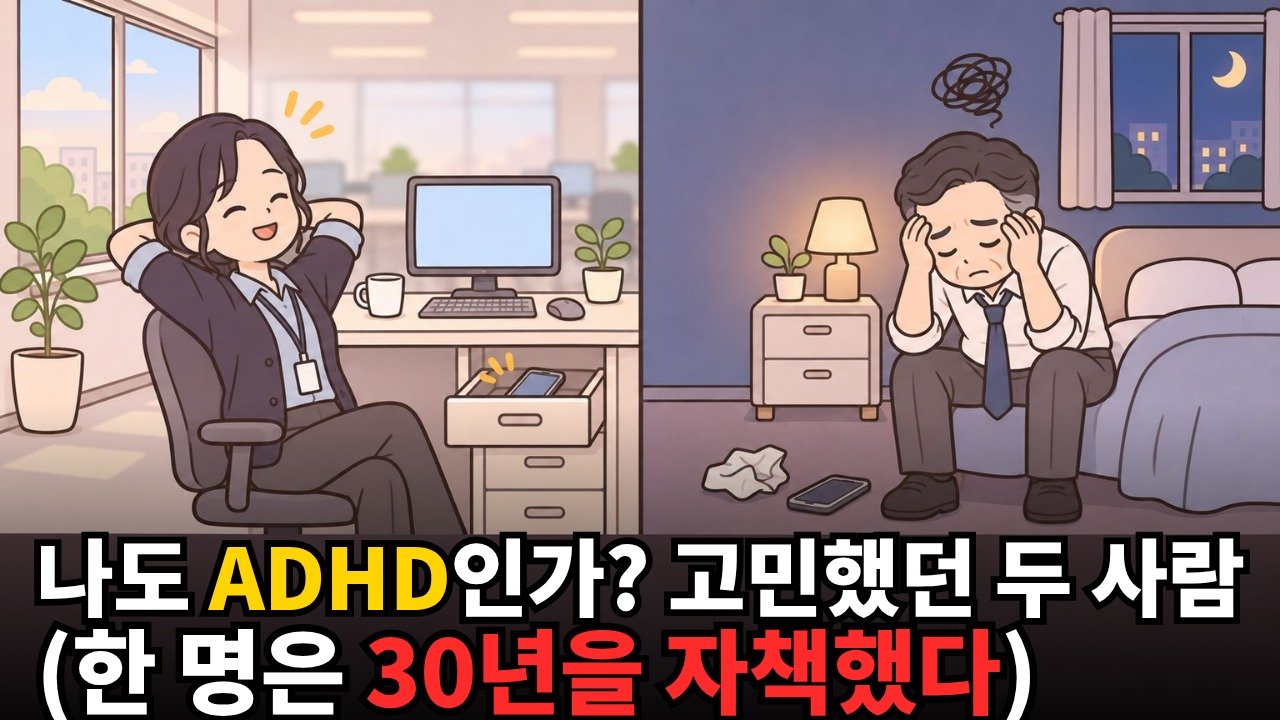
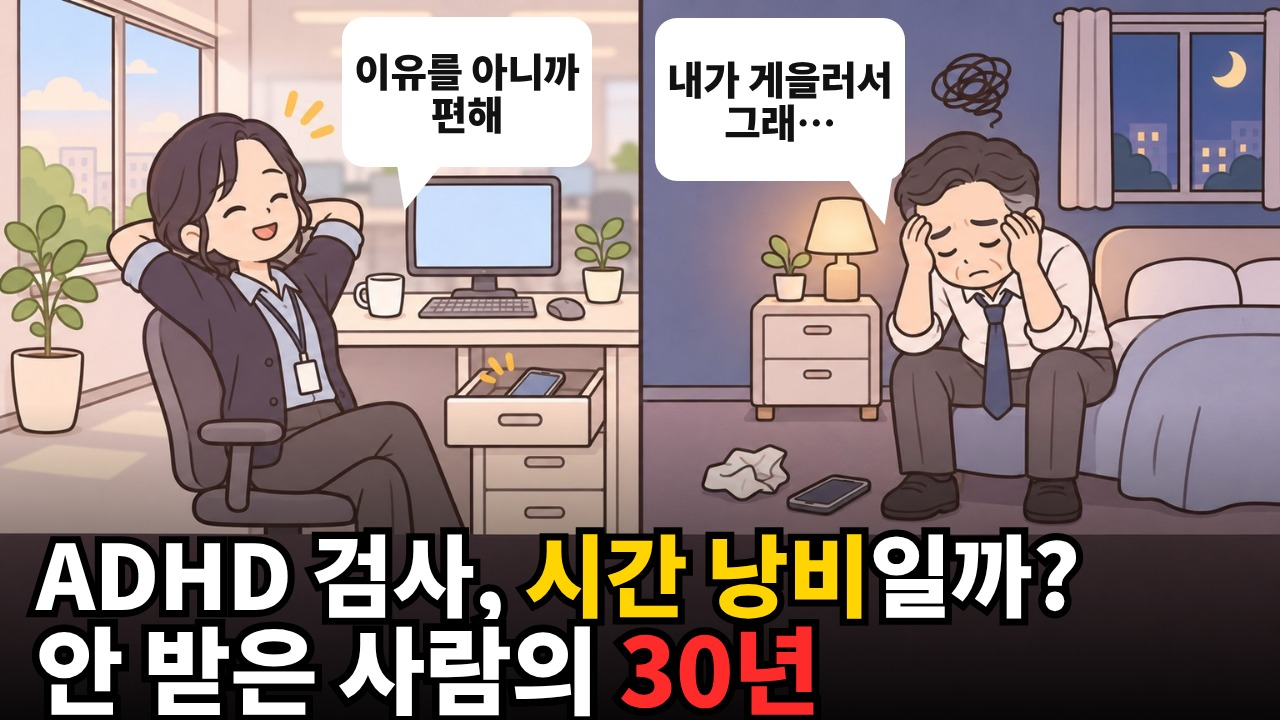
psychology: ADHD 썸네일 3안 다시 — 두 사람 말풍선 · 둘째 줄 괄호 뺌 · 실험안 2개 새 문구
- thumbs_build.py v1.4: 안마다 문구·말풍선 여러 개 (variants) · package.json thumb_tests 대조
- 본안 사용자 문구 · 실험 1 「ADHD 검사, 시간 낭비일까? / 안 받은 사람의 30년」 · 실험 2 「게으른 줄 알았던 두 사람 / 한 명만 진짜 이유를 알았다」

Claude-Session: https://claude.ai/code/session_01PYG2MqrRa1FwGcWhbgqN1W

Changed region(s): [[0.0, 0.7333, 1.0, 1.0], [0.5, 0.0, 0.7188, 0.3056], [0.25, 0.0, 0.4688, 0.275]]

diff --git a/psychology/source/thumbs_build.py b/psychology/source/thumbs_build.py
@@ -1,6 +1,7 @@
 #!/usr/bin/env python3
 # -*- coding: utf-8 -*-
-# VERSION: v1.3 — 2026-11-24 — adhd-ab-2026-11 (일상툰 · 그림 아래 어두운 띠 y 74% 부터): 편마다 글 상자(l1·l2)·꼬리 방향·설명 줄을 따로 — 사용자 지시 "1번으로 하고 썸네일 만들어봐"
+# VERSION: v1.4 — 2026-11-24 — 편마다 3안을 따로 (variants: 안마다 문구 2줄·말풍선 여러 개) — 사용자 지시 "둘다 말풍선 넣고 두번재 줄 괄호 제거해 그리고 나머지 2개는 실험형으로 너가 문구를 만드는 거야"
+# 이전 v1.3 — 2026-11-24 — adhd-ab-2026-11 (일상툰 · 그림 아래 어두운 띠 y 74% 부터): 편마다 글 상자(l1·l2)·꼬리 방향·설명 줄을 따로 — 사용자 지시 "1번으로 하고 썸네일 만들어봐"
 # 이전 v1.2 — 2026-11-13 — 말풍선 꼬리가 말하는 사람(말풍선 왼쪽 아래) 쪽으로 기울게 (tail right · 18%)
 # 이전 v1.1 — 2026-11-13 — 말풍선을 머리 옆 빈 곳 끝까지 넓히고 줄을 나눠 글자를 키움 (40~46px → 크게 · 낱말 그대로)
 # 이전 v1.0 — 2026-11-13 — 심리 네 편 롱폼 썸네일 3안 설정 (만스피처럼 그림 = ChatGPT TH-CHAR · 문구 = 코드 thumb.mjs)
@@ -8,6 +9,7 @@
 # CHANGELOG
 # | 버전 | 날짜 | 바뀐 것 | 함수 |
 # |---|---|---|---|
+# | v1.4 | 2026-11-24 | variants (안마다 문구·말풍선 여러 개) — package.json thumb_tests 와 글자 대조 | build |
 # | v1.3 | 2026-11-24 | 편마다 l1·l2 글 상자 · tail·tailPos · note (adhd-ab-2026-11) | EP · bubble · build |
 # | v1.2 | 2026-11-13 | 꼬리 방향 = 말하는 사람 쪽 | bubble |
 # | v1.1 | 2026-11-13 | 말풍선 자리 넓힘 · 줄 나눔 (글자 그대로) · fill 0.9/0.74 | EP · bubble |
@@ -64,11 +66,15 @@ EP = {
     },
     # v1.3 — 그림 아래 26% 가 어두운 띠(y 640/864 부터) → 두 줄을 띠 안에 · 말풍선 = B 머리 왼쪽 빈 벽, 꼬리는 오른쪽(B 쪽)으로
     "adhd-ab-2026-11": {
-        "main": [[["나도 ", "W"], ["ADHD", "Y"], ["인가? 고민했던 두 사람", "W"]], [["(한 명은 ", "W"], ["30년을 자책했다", "R"], [")", "W"]]],
-        "alt": [[["나도 ADHD인가? ", "W"], ["고민했던 두 사람", "Y"]], [["(한 명은 ", "W"], ["30년", "Y"], ["을 자책했다)", "W"]]],
-        "bubble": [786, 22, 300, 196], "btext": "내가 게을러서\n그래…", "tail": "left", "tailPos": 0.78,
         "l1": [36, 524, 1208, 94], "l2": [36, 616, 1000, 100],
-        "note": "문구 = 사용자가 고른 윗줄·아랫줄(1번) + 보조 문구(대본 46번 B씨 생각) — 제목이 정해지면 persona_loop title 단계",
+        # v1.4 두 사람 모두 말풍선 — A 머리 오른쪽 사무실 벽(모니터 위) · B 머리 왼쪽 어두운 벽 (사람·스탠드·낙서 구름을 가리지 않음)
+        "bubbles": [[[410, 20, 300, 180], "이유를 아니까\n편해", "right", 0.18], [[786, 22, 300, 196], "내가 게을러서\n그래…", "left", 0.78]],
+        "variants": [
+            ("본안 — 사용자 문구", [[["나도 ", "W"], ["ADHD", "Y"], ["인가? 고민했던 두 사람", "W"]], [["한 명은 ", "W"], ["30년을 자책했다", "R"]]]),
+            ("실험 1 — 영상의 질문 + 안 받은 쪽 결과", [[["ADHD 검사, ", "W"], ["시간 낭비", "Y"], ["일까?", "W"]], [["안 받은 사람의 ", "W"], ["30년", "R"]]]),
+            ("실험 2 — 게으름이 아닌 이유", [[["게으른 줄", "Y"], [" 알았던 두 사람", "W"]], [["한 명만 ", "W"], ["진짜 이유", "Y"], ["를 알았다", "W"]]]),
+        ],
+        "note": "본안 = 사용자 문구 · 실험 1·2 = Claude 문구 · 말풍선 = A(대본 80번 생각과 같은 뜻)·B(대본 46번) — 제목이 정해지면 persona_loop title 단계",
         "_": "B 머리(x 70~82% · y 18~42%) 왼쪽 어두운 벽 (스탠드 x 63~69% · y 27% 아래는 비움) · A 쪽은 비워 둠",
     },
 }
@@ -88,7 +94,35 @@ def bubble(rect, text, bg, tail="right", tail_pos=0.18):
             "fill": [0.9, 0.74], "_": "보조 문구 — 머리 옆 빈 곳 (사람을 가리지 않음 · 꼬리는 평평한 아래쪽 18% · tail right = 왼쪽(말하는 사람 쪽)으로 기욺)"}
 
 
+def build_variants(ep: str, spec: dict, pkg: dict) -> list[Path]:
+    """v1.4 편마다 3안 (안마다 문구 2줄 · 말풍선 여러 개) — package.json thumb_main(본안)·thumb_tests(실험)·thumb_subs 와 글자 대조."""
+    want = [pkg["thumb_main"]] + [t["main"] for t in pkg.get("thumb_tests", [])]
+    got = [["".join(t for t, _ in ln) for ln in v[1]] for v in spec["variants"]]
+    if got != want:
+        raise SystemExit(f"[THUMB] {ep} 문구가 package.json 과 다름: {got} ≠ {want} — 문구를 바꾸면 persona_loop title 단계부터")
+    if [b[1].replace("\n", " ") for b in spec["bubbles"]] != pkg.get("thumb_subs", []):
+        raise SystemExit(f"[THUMB] {ep} 말풍선이 package.json thumb_subs 와 다름")
+    out_dir = ROOT / "psychology" / "source" / ep / "thumbnails"
+    out_dir.mkdir(exist_ok=True)
+    base = {"size": [1280, 720], "shade": [0.56, 0.9], "images": [{"src": "../images/TH-CHAR.jpg", "box": [0, 0, 1280, 720]}]}
+    l1, l2 = spec.get("l1", L1), spec.get("l2", L2)
+    paths = []
+    for i, (name, main) in enumerate(spec["variants"], 1):
+        d = dict(base)
+        d["_설명"] = (f"{name} (2026-11-24 — 사용자 지시 \"둘다 말풍선 넣고 두번재 줄 괄호 제거해 그리고 나머지 2개는 실험형으로 너가 문구를 만드는 거야\") — "
+                     f"짝 제목 「{pkg['title']}」 · {spec.get('note', '')} · 그림 = images/TH-CHAR.jpg · 말풍선 자리: {spec['_']}")
+        d["out"] = f"thumbnail_{i}.jpg"
+        d["blocks"] = [lines(l1, main[0]), lines(l2, main[1])] + [bubble(r, t, "W", tl, tp) for r, t, tl, tp in spec["bubbles"]]
+        p = out_dir / f"thumbnail_{i}.json"
+        p.write_text(json.dumps(d, ensure_ascii=False, indent=1), encoding="utf-8")
+        paths.append(p)
+    log("JSON", ep=ep, files=len(paths), variants=len(spec["variants"]))
+    return paths
+
+
 def build(ep: str, spec: dict, pkg: dict) -> list[Path]:
+    if "variants" in spec:                                  # v1.4
+        return build_variants(ep, spec, pkg)
     # 문구가 package.json 과 같은지 (글자는 바꾸지 않음 — 페르소나 관문 통과 문구)
     joined = ["".join(t for t, _ in ln) for ln in spec["main"]]
     if joined != pkg["thumb_main"]:

diff --git a/guides/status.md b/guides/status.md
@@ -1,6 +1,7 @@
 # 지금 상태·다음 할 일 (인수인계)
 
-버전: v4.54 — 2026-11-24 — **심리 — ADHD 썸네일 3안** (사용자 지시 "썸네일 문구: 나도 ADHD인가? 고민했던 두 사람 / (삶의 질이 정반대) 이런식으로 … 아랫줄 부분 너가 써봐" → "1번으로 하고 썸네일 만들어봐"): `psychology/source/adhd-ab-2026-11/package.json` (윗줄 사용자 문구 · 아랫줄 「(한 명은 30년을 자책했다)」 · 보조 「내가 게을러서 그래…」) → `psychology/source/thumbs_build.py` v1.3 → `thumbnails/thumbnail_1~3.jpg` (본안 · 보조 없음 · 강조 색 바꿈). 남은 것: 제목 → persona_loop title 단계 (제목이 있어야 피드 시험)
+버전: v4.55 — 2026-11-24 — **심리 — ADHD 썸네일 3안 다시** (사용자 지시 "둘다 말풍선 넣고 두번재 줄 괄호 제거해 그리고 나머지 2개는 실험형으로 너가 문구를 만드는 거야"): 본안 「나도 ADHD인가? 고민했던 두 사람 / 한 명은 30년을 자책했다」 · 실험 1 「ADHD 검사, 시간 낭비일까? / 안 받은 사람의 30년」 · 실험 2 「게으른 줄 알았던 두 사람 / 한 명만 진짜 이유를 알았다」 · 말풍선 A 「이유를 아니까 편해」 · B 「내가 게을러서 그래…」 (`thumbs_build.py` v1.4 · `package.json` thumb_tests). 남은 것: 제목 → persona_loop title 단계
+이전 v4.54 — 2026-11-24 — **심리 — ADHD 썸네일 3안** (사용자 지시 "썸네일 문구: 나도 ADHD인가? 고민했던 두 사람 / (삶의 질이 정반대) 이런식으로 … 아랫줄 부분 너가 써봐" → "1번으로 하고 썸네일 만들어봐"): `psychology/source/adhd-ab-2026-11/package.json` (윗줄 사용자 문구 · 아랫줄 「(한 명은 30년을 자책했다)」 · 보조 「내가 게을러서 그래…」) → `psychology/source/thumbs_build.py` v1.3 → `thumbnails/thumbnail_1~3.jpg` (본안 · 보조 없음 · 강조 색 바꿈). 남은 것: 제목 → persona_loop title 단계 (제목이 있어야 피드 시험)
 이전 v4.55 — 2026-11-24 — **위기 채널 — 한라산 심정지 대본 v1.1 (심정지 위험 중심)** (사용자 지시 "그런데 국립공원에서 숨진 사람의 절반은, 낙사가 아닌 등산 중 심정지 때문이었습니다. 이렇게 바꾸고 심정지 위험을 알리는데 중점을 맞춰서 디테일하게 묘사를 해 그리고 다른 심정지 사례도 간단하게 언급해서 위험성을 알려"): `crisis/source/hallasan-simjeongji-2026-11/대본_초안.txt` v1.1 — 도입 문장 교체 · 심정지 순간·4분 · 2020 지리산 헬기 불시착 · 왜 산에서 · 다른 사례 5건(2023 둘레길 · 2025-05 성판악 · 2026-08 청량산 · 2026-10 운악산 · 2026-10 성판악) · 급성심장정지 통계 · 옆 사람이 쓰러졌다면 · 약 7.5분 · 페르소나 관문 안 거친 초안.
 이전 v4.54 — 2026-11-24 — **위기 채널 — 한라산 실제 사례 대본 초안 (헬기가 뜨지 못한 날)** (사용자 지시 "한라산 실제 사례로 다시 써봐 사망했고 자세하게 설명 가능한 사례 하나 골라서 작성해 A,B 비교만하지말고 나머지는 같은 형식으로 써봐"): `crisis/source/hallasan-simjeongji-2026-11/대본_초안.txt` v1.0 — 2025-03-17 성판악 4-21 지점 60대 관광객 심정지(08:12 신고 · 강풍주의보 · 닥터헬기 불가 · 09:26 모노레일 · 12:04 사망 판정) + 같은 길 반복(2025-05-26 · 2026-10-26) · 심리 편 형식(A/B 없이) · 약 4.7분 · 근거 `근거.md` · 페르소나 관문 안 거친 초안.
 이전 v4.53 — 2026-11-24 — **심리 — ADHD 영상 v2.1 렌더** (사용자 지시 "이미지 올렸어 확인하고 영상 다시 만들어"): 도입 그림 BG-INTRO-ROOM·V01 검수(그림체·글자 없음) → `puppet_slice.py` v1.2 (89조각) → 장면 v2.1 (V = 원룸 침대 앞 · 시계 = 오른쪽 위 빈 벽) → bubble-check·layout-check·render check 0 → `psychology/out/adhd-ab-2026-11/final_1080p.mp4` (5분 38초 · -14.19 LUFS · TP -1.52, git 밖). 남은 것: 제목·썸네일 문구 + 페르소나 반복 검증 · 설명란 자살예방상담전화 안내
